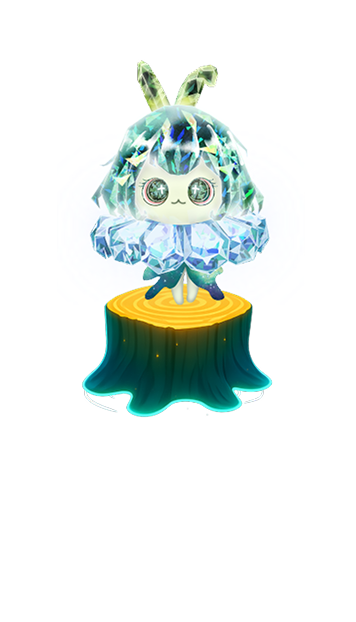
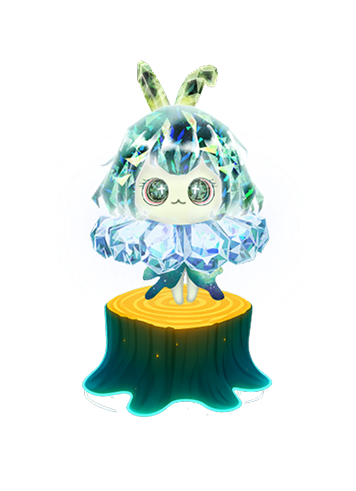
feat: add background elements in event info

Changed region(s): [[0.2163, 0.0916, 0.7725, 0.8554]]

diff --git a/src/components/sections/event-info.tsx b/src/components/sections/event-info.tsx
@@ -3,9 +3,9 @@ import React from "react";
 
 const EventInfo = () => {
   return (
-    <SectionPage id="event-info" className="relative">
-      <div className="mx-auto flex h-full w-full max-w-7xl flex-col lg:grid lg:h-[calc(100vh-97px)] lg:grid-cols-2 lg:grid-rows-1">
-        <div className="flex h-fit w-full items-center justify-center px-4 py-8 lg:h-full lg:max-w-[600px]">
+    <SectionPage id="event-info" className="relative h-full w-full">
+      <div className="mx-auto flex h-fit w-full max-w-7xl flex-col lg:grid lg:h-screen lg:max-h-[650px] lg:grid-cols-2 lg:grid-rows-1">
+        <div className="relative flex w-full items-center justify-center p-2 lg:h-full lg:max-w-[600px] lg:px-4 lg:py-8">
           <p className="text-lg">
             <span className="font-cinzel text-secondary-600 text-xl font-bold">
               AWS Cloud Clubs Philippines{" "}
@@ -19,18 +19,48 @@ const EventInfo = () => {
             AWSomeness.
           </p>
         </div>
-        <div className="relative flex h-full w-full flex-col items-center justify-center border border-red-500">
+        <div className="absolute top-0 left-16 -z-10 hidden h-[240px] w-[240px] lg:block">
           <img
-            src="/suee.png"
-            alt="Suee"
-            className="h-full max-h-full w-full max-w-full object-contain"
-          />
-          <img
-            src="/tree-stump.png"
-            alt="Suee"
-            className="h-full max-h-full w-full max-w-full object-contain"
+            src="/4-leaves.png"
+            alt="Leaves"
+            className="h-full w-full object-contain"
           />
         </div>
+        <div className="absolute top-1/2 left-[45%] -z-10 hidden h-[240px] w-[240px] lg:block">
+          <img
+            src="/4-leaves.png"
+            alt="Leaves"
+            className="h-full w-full object-contain"
+          />
+        </div>
+        <div className="relative flex h-full w-full flex-col items-center justify-center">
+          <img
+            src="/sue-with-tree-stump.png"
+            alt="Suee"
+            className="h-full max-h-[500px] w-full max-w-[350px] object-contain"
+          />
+          <div className="absolute -top-4 -left-4 -z-10 h-[240px] w-[240px] lg:hidden">
+            <img
+              src="/4-leaves.png"
+              alt="Leaves"
+              className="h-full w-full object-contain"
+            />
+          </div>
+          <div className="absolute top-1/2 -right-8 -z-10 h-[240px] w-[240px] lg:hidden">
+            <img
+              src="/4-leaves.png"
+              alt="Leaves"
+              className="h-full w-full object-contain"
+            />
+          </div>
+        </div>
+      </div>
+      <div className="absolute right-0 bottom-0 hidden h-full lg:block">
+        <img
+          src="/clouds.png"
+          alt="Event Cloud"
+          className="h-full max-h-[600px] w-full object-contain opacity-10"
+        />
       </div>
     </SectionPage>
   );
